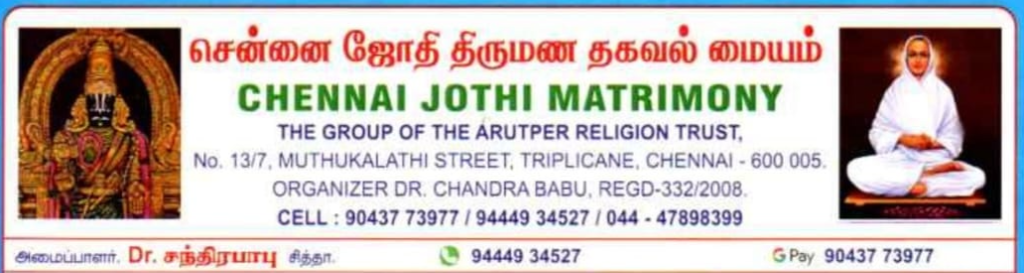
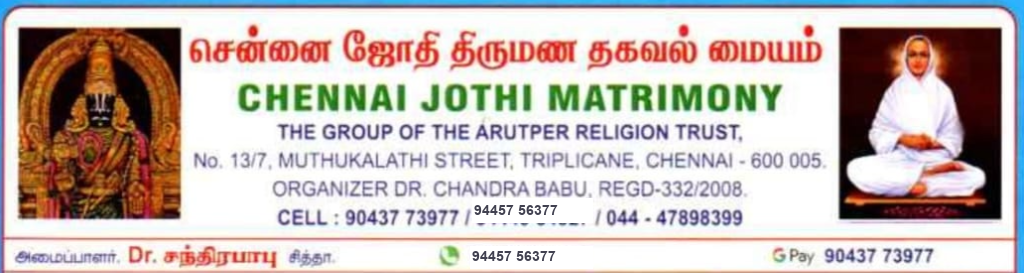
fix: replace 94449 34527 in registration form header and add localStorage phone sanitizer

Changed region(s): [[0.4375, 0.7326, 0.5938, 0.8205], [0.4375, 0.9084, 0.5938, 0.967]]

diff --git a/apps/web/context/AuthContext.jsx b/apps/web/context/AuthContext.jsx
@@ -69,6 +69,27 @@ export function AuthProvider({ children }) {
           }
         }
 
+        // Sanitize any legacy cached numbers (94449 34527 / 94456 38377 -> 94457 56377)
+        const sanitizePhone = (val) => {
+          if (!val || typeof val !== 'string') return val;
+          return val
+            .replace(/\+?91[\s\-]?(94449[\s\-]?34527|94456[\s\-]?38377)/g, '+91 94457 56377')
+            .replace(/(9444934527|9445638377)/g, '9445756377');
+        };
+
+        if (parsed.user) {
+          if (parsed.user.phone) parsed.user.phone = sanitizePhone(parsed.user.phone);
+          if (parsed.user.mobile) parsed.user.mobile = sanitizePhone(parsed.user.mobile);
+        }
+
+        if (Array.isArray(parsed.customProfiles)) {
+          parsed.customProfiles = parsed.customProfiles.map(p => ({
+            ...p,
+            phone: sanitizePhone(p.phone),
+            mobile: sanitizePhone(p.mobile)
+          }));
+        }
+
         setState(prev => ({
           ...defaultState,
           ...parsed,

diff --git a/src/context/AuthContext.jsx b/src/context/AuthContext.jsx
@@ -69,6 +69,27 @@ export function AuthProvider({ children }) {
           }
         }
 
+        // Sanitize any legacy cached numbers (94449 34527 / 94456 38377 -> 94457 56377)
+        const sanitizePhone = (val) => {
+          if (!val || typeof val !== 'string') return val;
+          return val
+            .replace(/\+?91[\s\-]?(94449[\s\-]?34527|94456[\s\-]?38377)/g, '+91 94457 56377')
+            .replace(/(9444934527|9445638377)/g, '9445756377');
+        };
+
+        if (parsed.user) {
+          if (parsed.user.phone) parsed.user.phone = sanitizePhone(parsed.user.phone);
+          if (parsed.user.mobile) parsed.user.mobile = sanitizePhone(parsed.user.mobile);
+        }
+
+        if (Array.isArray(parsed.customProfiles)) {
+          parsed.customProfiles = parsed.customProfiles.map(p => ({
+            ...p,
+            phone: sanitizePhone(p.phone),
+            mobile: sanitizePhone(p.mobile)
+          }));
+        }
+
         setState(prev => ({
           ...defaultState,
           ...parsed,
